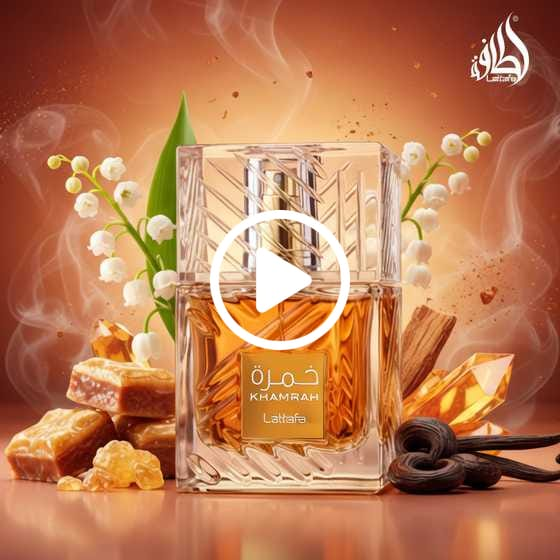
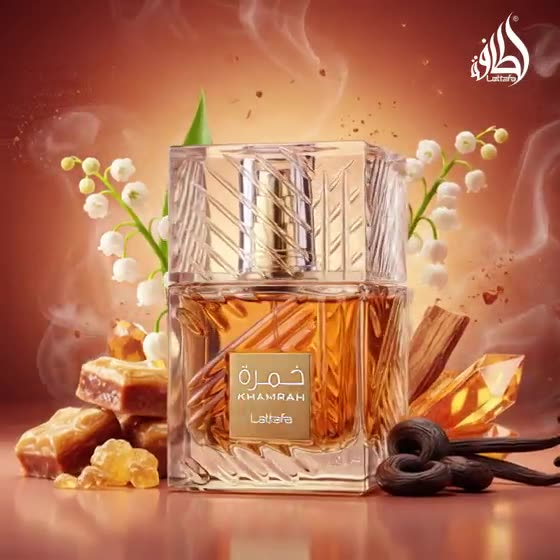
Hero video: play button flash fixed (muted parse-time incl.), clean poster frame from the video itself

diff --git a/src/components/hero-video.tsx b/src/components/hero-video.tsx
@@ -5,16 +5,30 @@ import { useEffect, useRef, useState } from "react";
 /**
  * Welcome-page hero media.
  *
- * Autoplay requires the muted attribute set at hydration (React does not
- * server-render it), hence the ref. The poster photo shows instantly while
- * the 1.3 MB H.264 video streams, then it loops forever.
+ * Starts playing the moment its first frames arrive: the poster is a clean
+ * frame of the video itself (no baked-in play glyph), `muted` is rendered
+ * server-side by React 19 so autoplay is never blocked, and a short retry
+ * loop nudges browsers (iOS low power) that decline the first play().
+ * Falls back to the poster photo if the video cannot load.
  */
 export function HeroVideo() {
   const videoRef = useRef<HTMLVideoElement>(null);
   const [failed, setFailed] = useState(false);
 
   useEffect(() => {
-    if (videoRef.current) videoRef.current.muted = true;
+    const video = videoRef.current;
+    if (!video) return;
+    let tries = 0;
+    const timer = window.setInterval(() => {
+      tries += 1;
+      if (!video.paused || tries > 20) {
+        window.clearInterval(timer);
+        return;
+      }
+      video.muted = true;
+      void video.play().catch(() => {});
+    }, 250);
+    return () => window.clearInterval(timer);
   }, []);
 
   if (failed) {
@@ -37,6 +51,10 @@ export function HeroVideo() {
       preload="auto"
       disablePictureInPicture
       disableRemotePlayback
+      onLoadedData={(event) => {
+        event.currentTarget.muted = true;
+        void event.currentTarget.play().catch(() => {});
+      }}
       onError={() => setFailed(true)}
     />
   );
